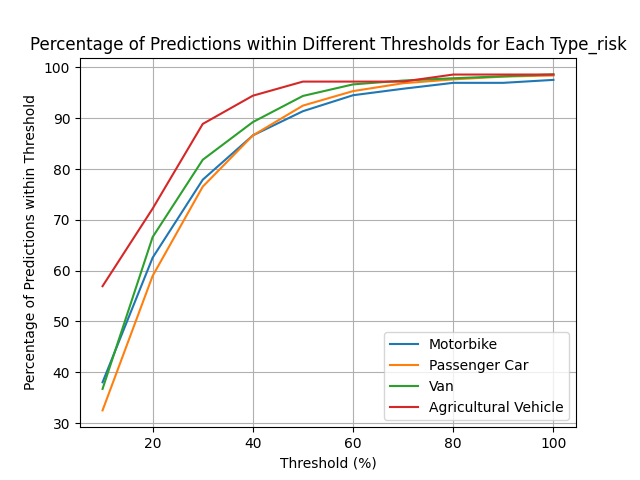
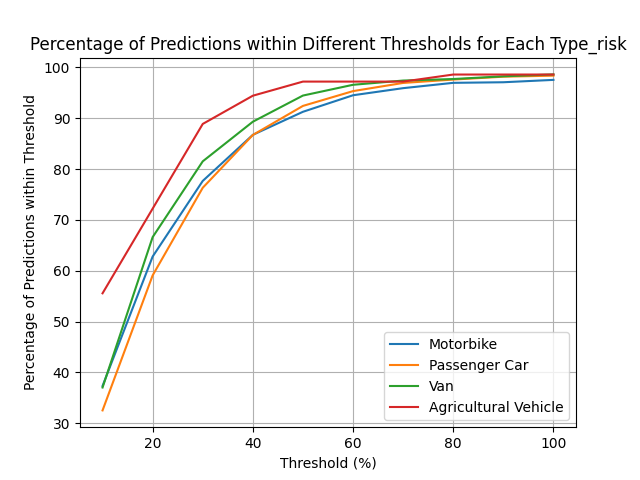
Add graphs to report

diff --git a/neuralNetwork/neuralNetwork.py b/neuralNetwork/neuralNetwork.py
@@ -23,6 +23,17 @@ filename = "Motor_vehicle_insurance_data.csv"
 # Reading the CSV file
 data = pd.read_csv(filename, sep=';')
 
+def definition_of_type_risk(number):
+    if number == 1:
+        return "Motorbike"
+    elif number == 2:
+        return "Van"
+    elif number == 3:
+        return "Passenger Car"
+    elif number == 4:
+        return "Agricultural Vehicle"
+    else:
+        return "All"
 # Feature engineering
 last_renewal_day = pd.to_datetime(data['Date_last_renewal'], format='%d/%m/%Y')
 last_renewal_year = last_renewal_day.dt.year
@@ -89,23 +100,11 @@ data.info()
 features = data.drop(columns=['Premium'])
 labels = data['Premium']
 
-features_preprocessed = preprocessor.fit_transform(features)
+features_preprocessed = preprocessor.fit(features)
 
-X_train, X_test, y_train, y_test = train_test_split(features_preprocessed, labels, test_size=0.2, random_state=42)
-
-# Convert features and labels to PyTorch tensors
-X_train_tensor = torch.tensor(X_train, dtype=torch.float32, device=device)
-y_train_tensor = torch.tensor(y_train.values, dtype=torch.float32, device=device).unsqueeze(1)
-
-# Create a TensorDataset
-train_dataset = TensorDataset(X_train_tensor, y_train_tensor)
-
-# Define batch size for the DataLoader
 batch_size = 64
 epochs = 10
 
-# Create DataLoader
-train_loader = DataLoader(train_dataset, batch_size=batch_size, shuffle=True)
 
 class NeuralNet(nn.Module):
     def __init__(self, input_size, num_numerical_cols, categorical_columns, data, output_size):
@@ -173,11 +172,7 @@ embedding_sizes = [(len(data[column].unique()) + 1, min(50, (len(data[column].un
 # Initialize the neural network
 input_size = len(numericalColumns) + sum(embedding_size for _, embedding_size in embedding_sizes)
 output_size = 1  # For regression
-model = NeuralNet(input_size, len(numericalColumns), categoricalColumns, data, output_size).to(device)
-
-# Define loss function and optimizer
 criterion = nn.MSELoss()  # Mean Squared Error loss for regression
-optimizer = optim.Adam(model.parameters(), lr=0.001)
 
 # Define training loop
 def train_model(model, criterion, optimizer, train_loader, epochs):
@@ -216,7 +211,7 @@ def train_model(model, criterion, optimizer, train_loader, epochs):
         print(f"Epoch {epoch + 1}/{epochs}, Loss: {running_loss / len(train_loader):.4f}, MAE: {mean_mae:.4f}, R-squared: {r2:.4f}")
 
 # Define evaluation function
-def evaluate_model(model, X_test, y_test):
+def evaluate_model(model, X_test, y_test, risk_type):
     model.eval()  # Set the model to evaluation mode
     with torch.no_grad():
         # Split the features into numerical and categorical components
@@ -240,6 +235,7 @@ def evaluate_model(model, X_test, y_test):
         # Calculate Mean Absolute Error
         mae = mean_absolute_error(y_test, outputs.cpu().numpy())
         print(f"Mean Absolute Error on Test Set: {mae}")
+        type_defined = definition_of_type_risk(risk_type)
 
         threshold_values = [10, 20, 30, 40, 50, 60, 70, 80, 90, 100]
         # Calculate percentage within threshold
@@ -250,21 +246,75 @@ def evaluate_model(model, X_test, y_test):
             percentages_within_threshold.append(within_threshold)
             print(f"Percentage of predictions within {threshold}% of the actual value: {within_threshold}")
 
-        # Plotting
-        plt.figure(figsize=(8, 6))
-        plt.plot(threshold_values, percentages_within_threshold)
-        plt.title('Percentage of Predictions within Threshold')
-        plt.xlabel('Threshold (%)')
-        plt.ylabel('Percentage within the Threshold')
-        plt.grid(True)
-        plt.savefig(f'report\\images\\neural_network_all_thresholds.png')
-        plt.show()
+        return percentages_within_threshold
 
 
+# Get unique values of 'Type_risk' column
+risk_types = data['Type_risk'].unique()
 
-        
-# Train the model
-train_model(model, criterion, optimizer, train_loader, epochs)
+# Dictionary to store models and corresponding datasets
+models = {}
+datasets = {}
 
-# Evaluate the model
-evaluate_model(model, X_test, y_test)
+# Loop through each risk type
+for risk_type in risk_types:
+    # Filter data based on risk type
+    risk_data = data[data['Type_risk'] == risk_type]
+    
+    # Separate features and labels
+    risk_features = risk_data.drop(columns=['Premium'])
+    risk_labels = risk_data['Premium']
+    
+    # Preprocess features
+    risk_features_preprocessed = preprocessor.transform(risk_features)
+    
+    # Split into train and test sets
+    X_train_risk, X_test_risk, y_train_risk, y_test_risk = train_test_split(
+        risk_features_preprocessed, risk_labels, test_size=0.2, random_state=42)
+    
+    # Create TensorDatasets
+    train_dataset_risk = TensorDataset(
+        torch.tensor(X_train_risk, dtype=torch.float32, device=device),
+        torch.tensor(y_train_risk.values, dtype=torch.float32, device=device).unsqueeze(1)
+    )
+    
+    # Save dataset
+    datasets[risk_type] = (train_dataset_risk, X_test_risk, y_test_risk)
+    
+    # Initialize and train model
+    model_risk = NeuralNet(input_size, len(numericalColumns), categoricalColumns, risk_data, output_size).to(device)
+    optimizer_risk = optim.Adam(model_risk.parameters(), lr=0.001)
+    train_model(model_risk, criterion, optimizer_risk, DataLoader(train_dataset_risk, batch_size=batch_size, shuffle=True), epochs)
+    
+    # Save trained model
+    models[risk_type] = model_risk
+
+# Evaluate each model
+for risk_type, (train_dataset_risk, X_test_risk, y_test_risk) in datasets.items():
+    print(f"Evaluating model for risk type: {risk_type}")
+    evaluate_model(models[risk_type], X_test_risk, y_test_risk, risk_type)
+
+
+# Initialize a list to store risk_type-specific data for plotting
+plots_data = []
+
+# Evaluate each model and collect data for plotting
+for risk_type, (train_dataset_risk, X_test_risk, y_test_risk) in datasets.items():
+    print(f"Evaluating model for risk type: {risk_type}")
+    percentages_within_threshold = evaluate_model(models[risk_type], X_test_risk, y_test_risk, risk_type)
+    plots_data.append((risk_type,percentages_within_threshold))
+    
+threshold_values = [10, 20, 30, 40, 50, 60, 70, 80, 90, 100]
+# Plotting all graphs together
+plt.figure(figsize=(12, 8))
+for risk_type, percentages_within_threshold in plots_data:
+    type_defined = definition_of_type_risk(risk_type)
+    plt.plot(threshold_values, percentages_within_threshold, label=f'{type_defined}')
+
+plt.title('Percentage of Predictions within Threshold for All Risk Types')
+plt.xlabel('Threshold (%)')
+plt.ylabel('Percentage within the Threshold')
+plt.legend(loc='lower right') 
+plt.grid(True)
+plt.savefig('report\\images\\individual_thresholds_neural.png')
+plt.show()
